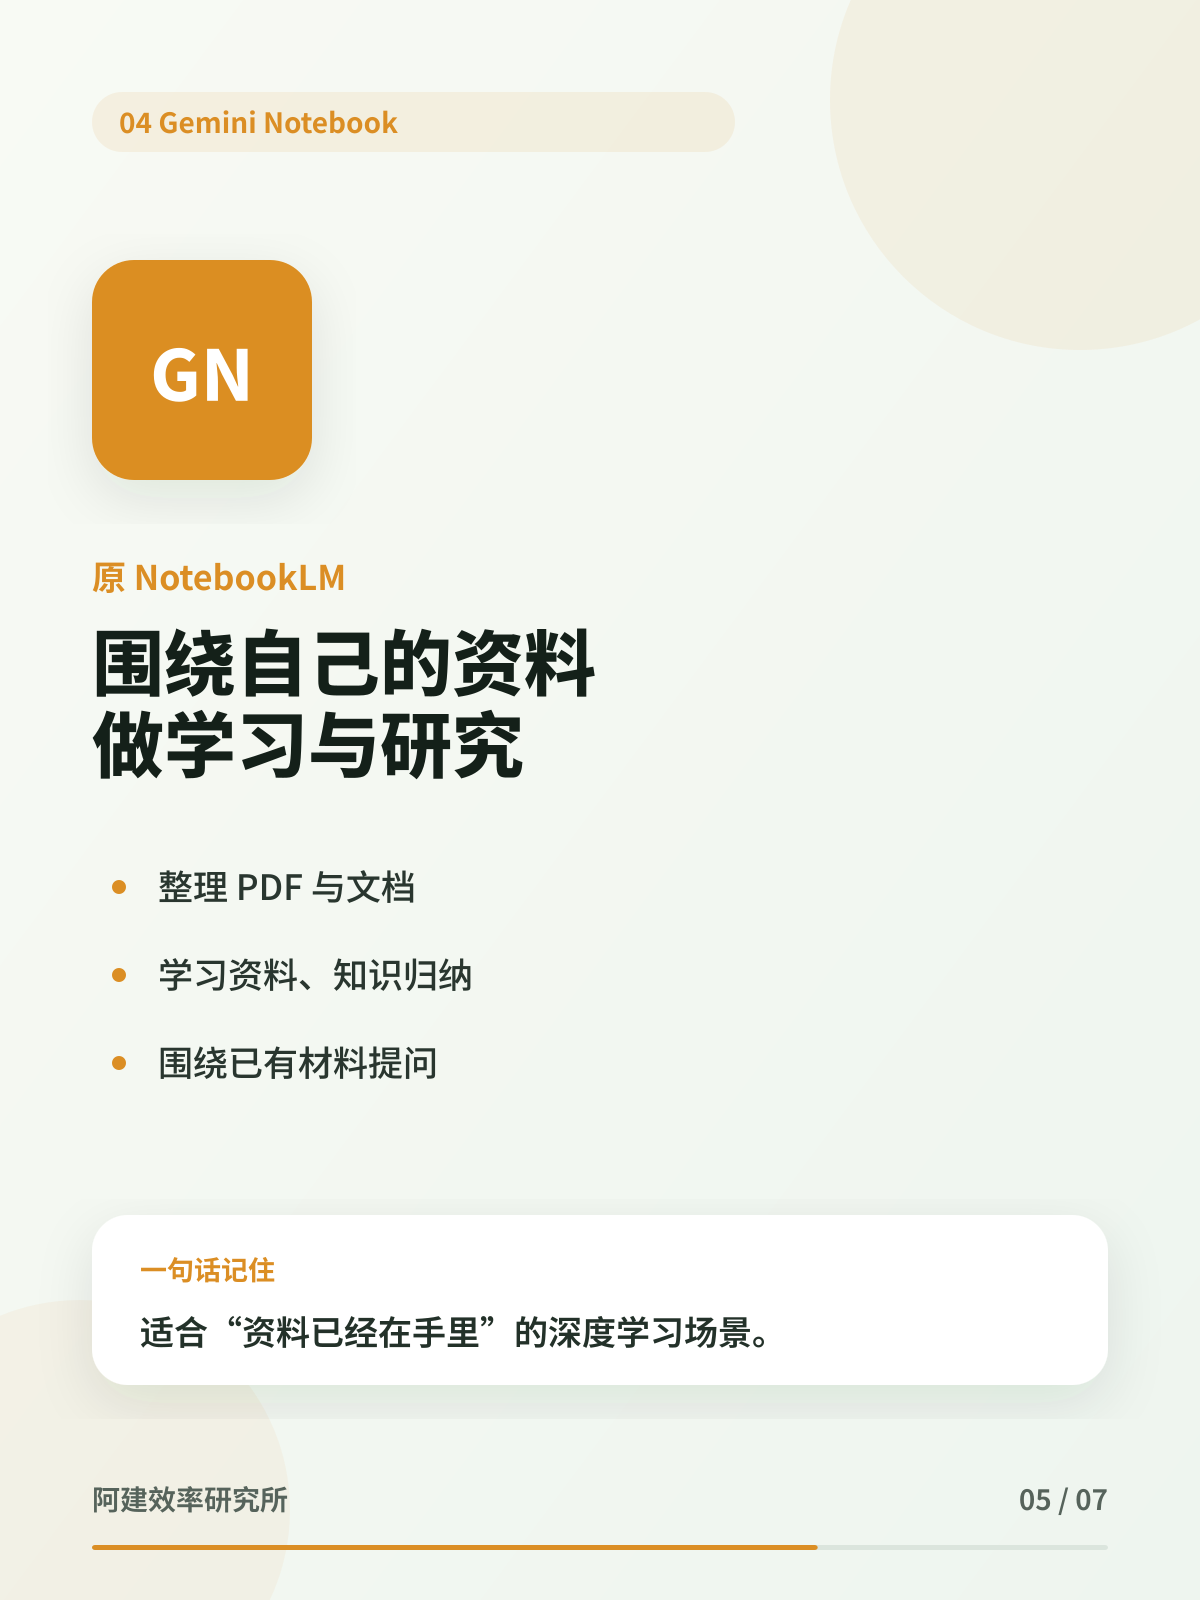
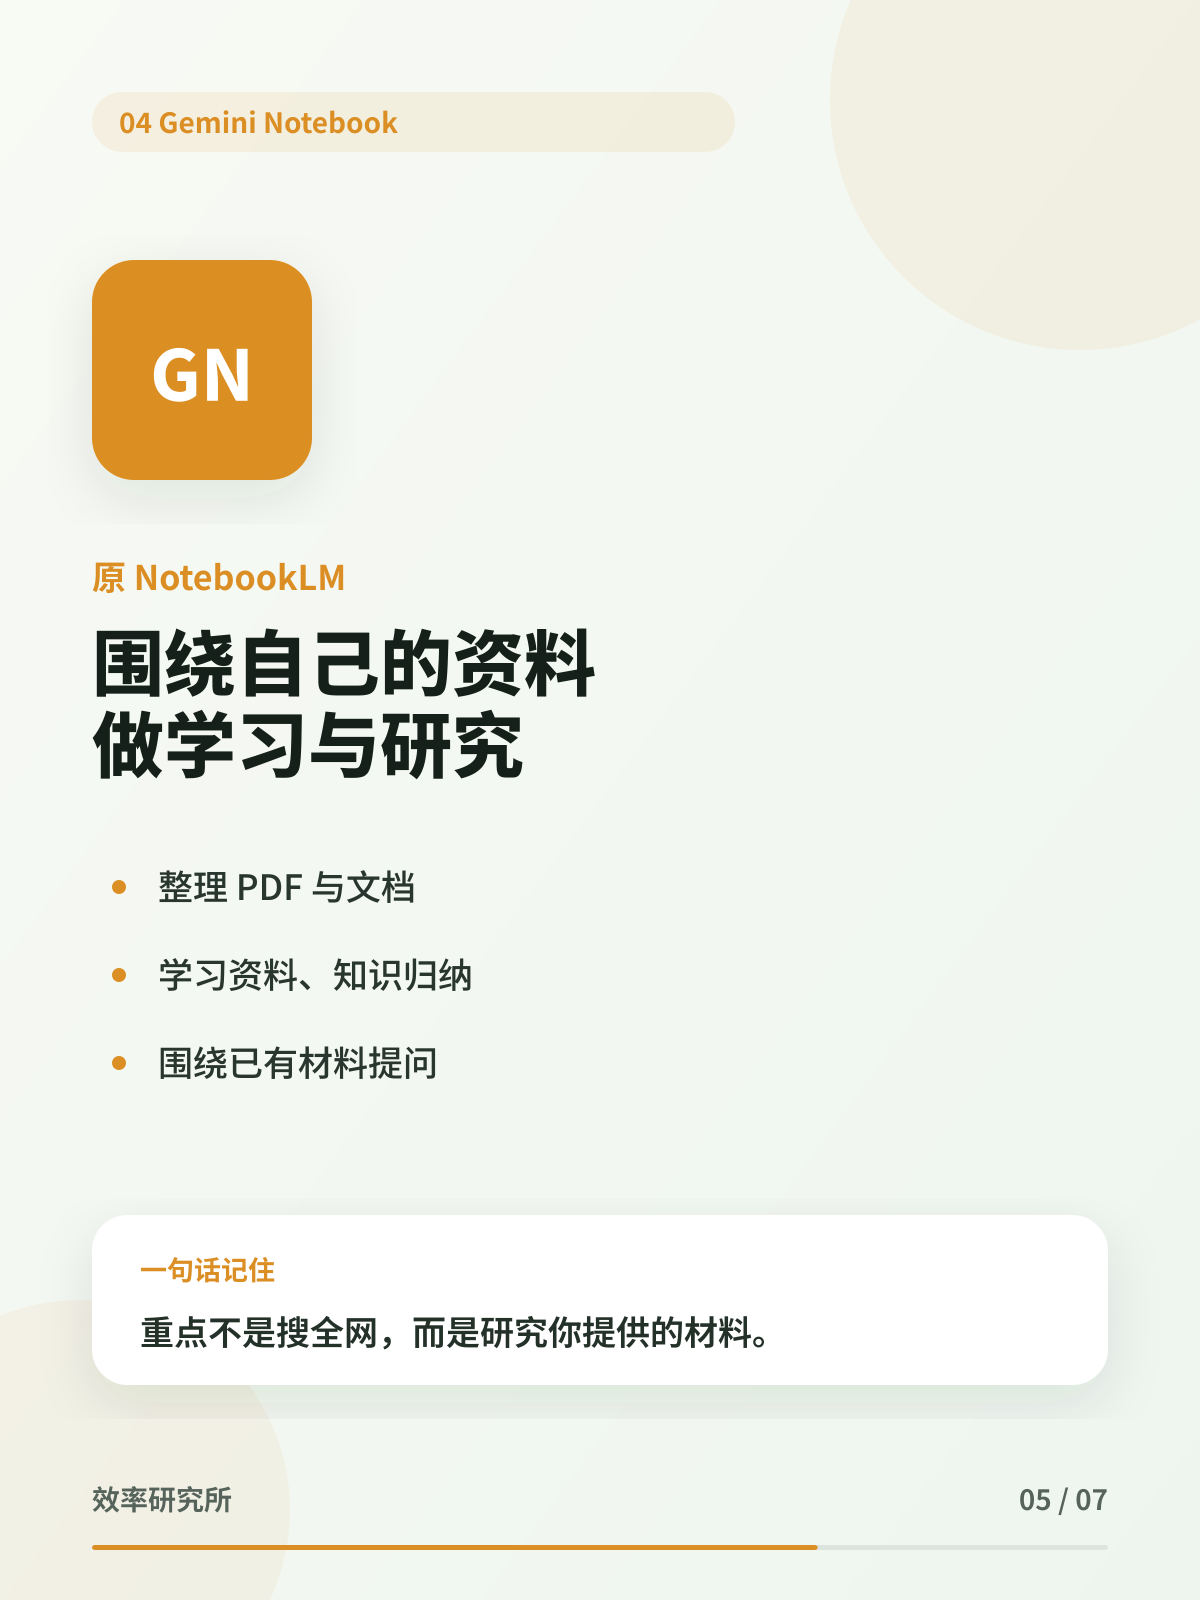
fix: 修改图片和文案
fix: 修改图片和文案

Changed region(s): [[0.1233, 0.8125, 0.6167, 0.8438], [0.0925, 0.9062, 0.2467, 0.9688]]

diff --git a/20260914-效率研究所/source/render.js b/20260914-效率研究所/source/render.js
@@ -4,6 +4,7 @@ const sharp = require('sharp');
 
 const WIDTH = 1200;
 const HEIGHT = 1600;
+const BRAND = '效率研究所';
 const ROOT = path.resolve(__dirname, '..');
 const OUT = path.join(ROOT, 'images');
 fs.mkdirSync(OUT, { recursive: true });
@@ -34,7 +35,7 @@ function shell(page, accent, body) {
     <circle cx="1080" cy="100" r="250" fill="${accent}" opacity="0.08"/>
     <circle cx="80" cy="1510" r="210" fill="${accent}" opacity="0.06"/>
     ${body}
-    ${text(92, 1510, '阿建效率研究所', 28, 650, '#56635b')}
+    ${text(92, 1510, BRAND, 28, 650, '#56635b')}
     ${text(1108, 1510, `${String(page).padStart(2, '0')} / 07`, 28, 650, '#56635b', 'end')}
     <rect x="92" y="1545" width="1016" height="5" rx="3" fill="#dbe5dd"/>
     <rect x="92" y="1545" width="${1016 * page / 7}" height="5" rx="3" fill="${accent}"/>
@@ -72,29 +73,32 @@ const covers = [
   {
     file: '01-cover.png',
     svg: shell(1, '#2f7d52', `
-      ${pill(92, 92, 'AI 工具入门', '#2f7d52')}
-      ${text(92, 390, 'AI工具', 130, 900, '#142019')}
-      ${text(92, 535, '别乱学！', 130, 900, '#2f7d52')}
-      ${text(92, 665, '普通人先搞懂这 5 个', 58, 720, '#26342c')}
-      ${text(92, 740, '先选对工具，再开始学习', 35, 500, '#627068')}
-      <g filter="url(#shadow)">${rounded(92, 860, 1016, 350, 48, '#ffffff')}</g>
-      ${toolIcon(140, 925, 130, 'GPT', '#1f8f64')}
-      ${toolIcon(330, 925, 130, 'G', '#7657d6')}
-      ${toolIcon(520, 925, 130, 'P', '#2877d5')}
-      ${toolIcon(710, 925, 130, 'GN', '#db8e24')}
-      ${toolIcon(900, 925, 130, 'C', '#1d9faa')}
-      ${text(600, 1155, '综合 · 搜索 · 文档 · 设计', 33, 650, '#445149', 'middle')}
-      ${rounded(92, 1280, 260, 76, 38, '#142019')}
-      ${text(222, 1331, '收藏备用', 31, 700, '#ffffff', 'middle')}
+      ${pill(92, 92, 'AI 工具选择指南', '#2f7d52')}
+      ${text(92, 365, '别再乱收藏', 106, 900, '#142019')}
+      ${text(92, 485, 'AI 工具', 118, 900, '#2f7d52')}
+      ${text(92, 620, '普通人先认清这 5 类', 58, 760, '#26342c')}
+      ${text(92, 700, '选对工具，比多学更重要', 37, 520, '#627068')}
+      <g filter="url(#shadow)">${rounded(92, 820, 1016, 390, 48, '#ffffff')}</g>
+      ${toolIcon(140, 885, 130, 'GPT', '#1f8f64')}
+      ${toolIcon(330, 885, 130, 'G', '#7657d6')}
+      ${toolIcon(520, 885, 130, 'P', '#2877d5')}
+      ${toolIcon(710, 885, 130, 'GN', '#db8e24')}
+      ${toolIcon(900, 885, 130, 'C', '#1d9faa')}
+      ${text(205, 1068, 'ChatGPT', 23, 650, '#445149', 'middle')}
+      ${text(395, 1068, 'Gemini', 23, 650, '#445149', 'middle')}
+      ${text(585, 1068, 'Perplexity', 22, 650, '#445149', 'middle')}
+      ${text(775, 1068, 'Notebook', 22, 650, '#445149', 'middle')}
+      ${text(965, 1068, 'Canva', 23, 650, '#445149', 'middle')}
+      ${text(600, 1160, '综合 · 生态 · 搜索 · 文档 · 设计', 31, 650, '#445149', 'middle')}
     `)
   },
   {
     file: '02-chatgpt.png',
     svg: toolPage(2, {
-      name: 'ChatGPT', icon: 'GPT', accent: '#1f8f64', kicker: '万能型 AI 助手',
+      name: 'ChatGPT', icon: 'GPT', accent: '#1f8f64', kicker: '综合型 AI 助手',
       title: '不知道用什么 AI？', title2: '先从它开始',
-      bullets: ['写作、总结与润色', '分析问题、辅助学习', '梳理思路、生成方案'],
-      takeaway: '适合高频、综合、需要来回沟通的任务。'
+      bullets: ['把会议纪要整理成待办', '总结长文并提取重点', '梳理方案并反复修改'],
+      takeaway: '适合综合处理、需要来回沟通的任务。'
     })
   },
   {
@@ -102,17 +106,17 @@ const covers = [
     svg: toolPage(3, {
       name: 'Gemini', icon: 'G', accent: '#7657d6', kicker: 'Google 系 AI 助手',
       title: '用 Google 生态的人', title2: '可以重点关注',
-      bullets: ['搜索与日常问答', '图片、文档与多模态', '连接 Google 使用场景'],
-      takeaway: '适合已经在 Google 生态里工作和学习的人。'
+      bullets: ['搜索与日常问答', '图片、文档与多模态', '联动 Google 应用场景'],
+      takeaway: '具体能力会因账号、地区和订阅方案而变化。'
     })
   },
   {
     file: '04-perplexity.png',
     svg: toolPage(4, {
-      name: 'Perplexity', icon: 'P', accent: '#2877d5', kicker: 'AI 搜索／查资料',
+      name: 'Perplexity', icon: 'P', accent: '#2877d5', kicker: '联网查资料',
       title: '想快速了解陌生领域', title2: '用它找资料',
-      bullets: ['查资料、做调研', '快速建立主题框架', '回答后继续查看来源'],
-      takeaway: '适合需要信息来源、又想快速入门的任务。'
+      bullets: ['查资料、做调研', '快速建立主题框架', '回答带引用，可点回原文核对'],
+      takeaway: '有来源不等于正确，重要结论仍要确认。'
     })
   },
   {
@@ -121,16 +125,16 @@ const covers = [
       name: 'Gemini Notebook', icon: 'GN', accent: '#db8e24', kicker: '原 NotebookLM',
       title: '围绕自己的资料', title2: '做学习与研究',
       bullets: ['整理 PDF 与文档', '学习资料、知识归纳', '围绕已有材料提问'],
-      takeaway: '适合“资料已经在手里”的深度学习场景。'
+      takeaway: '重点不是搜全网，而是研究你提供的材料。'
     })
   },
   {
     file: '06-canva-ai.png',
     svg: toolPage(6, {
       name: 'Canva AI', icon: 'C', accent: '#1d9faa', kicker: '设计／图片／内容制作',
-      title: '不太会设计？', title2: '先研究这类工具',
+      title: '做海报、PPT和社媒图', title2: '可以先用它出初稿',
       bullets: ['海报、图片与演示文稿', '文档与社媒内容', '快速完成视觉初稿'],
-      takeaway: '适合想把想法快速变成视觉内容的人。'
+      takeaway: '最终排版和文字仍需人工检查。'
     })
   },
   {
@@ -140,16 +144,18 @@ const covers = [
       ${text(92, 285, '不用一次学会', 76, 850, '#142019')}
       ${text(92, 380, '几十个 AI', 92, 900, '#2f7d52')}
       ${text(92, 458, '先根据需求选对工具', 38, 550, '#5e6b63')}
-      <g filter="url(#shadow)">${rounded(92, 560, 1016, 700, 48, '#ffffff')}</g>
-      ${toolIcon(138, 620, 96, 'GPT', '#1f8f64')}${text(280, 680, '综合处理', 35, 750, '#1f2923')}${text(1035, 680, 'ChatGPT', 34, 650, '#1f8f64', 'end')}
-      <line x1="138" y1="745" x2="1062" y2="745" stroke="#e7ece8" stroke-width="2"/>
-      ${toolIcon(138, 785, 96, 'P', '#2877d5')}${text(280, 845, '搜索资料', 35, 750, '#1f2923')}${text(1035, 845, 'Perplexity', 34, 650, '#2877d5', 'end')}
-      <line x1="138" y1="910" x2="1062" y2="910" stroke="#e7ece8" stroke-width="2"/>
-      ${toolIcon(138, 950, 96, 'GN', '#db8e24')}${text(280, 1010, '文档学习', 35, 750, '#1f2923')}${text(1035, 1010, 'Gemini Notebook', 34, 650, '#db8e24', 'end')}
-      <line x1="138" y1="1075" x2="1062" y2="1075" stroke="#e7ece8" stroke-width="2"/>
-      ${toolIcon(138, 1115, 96, 'C', '#1d9faa')}${text(280, 1175, '设计内容', 35, 750, '#1f2923')}${text(1035, 1175, 'Canva AI', 34, 650, '#1d9faa', 'end')}
-      ${text(600, 1345, 'Google 生态 → Gemini', 34, 700, '#7657d6', 'middle')}
-      ${text(600, 1405, '收藏起来，慢慢学。', 32, 550, '#536159', 'middle')}
+      <g filter="url(#shadow)">${rounded(92, 520, 1016, 745, 48, '#ffffff')}</g>
+      ${toolIcon(138, 570, 84, 'GPT', '#1f8f64')}${text(260, 623, '综合沟通', 32, 750, '#1f2923')}${text(1035, 623, 'ChatGPT', 31, 650, '#1f8f64', 'end')}
+      <line x1="138" y1="682" x2="1062" y2="682" stroke="#e7ece8" stroke-width="2"/>
+      ${toolIcon(138, 705, 84, 'G', '#7657d6')}${text(260, 758, 'Google 生态', 32, 750, '#1f2923')}${text(1035, 758, 'Gemini', 31, 650, '#7657d6', 'end')}
+      <line x1="138" y1="817" x2="1062" y2="817" stroke="#e7ece8" stroke-width="2"/>
+      ${toolIcon(138, 840, 84, 'P', '#2877d5')}${text(260, 893, '联网查资料', 32, 750, '#1f2923')}${text(1035, 893, 'Perplexity', 31, 650, '#2877d5', 'end')}
+      <line x1="138" y1="952" x2="1062" y2="952" stroke="#e7ece8" stroke-width="2"/>
+      ${toolIcon(138, 975, 84, 'GN', '#db8e24')}${text(260, 1028, '围绕资料学习', 32, 750, '#1f2923')}${text(1035, 1028, 'Gemini Notebook', 30, 650, '#db8e24', 'end')}
+      <line x1="138" y1="1087" x2="1062" y2="1087" stroke="#e7ece8" stroke-width="2"/>
+      ${toolIcon(138, 1110, 84, 'C', '#1d9faa')}${text(260, 1163, '视觉内容初稿', 32, 750, '#1f2923')}${text(1035, 1163, 'Canva AI', 31, 650, '#1d9faa', 'end')}
+      ${text(600, 1350, '后续按中文体验、上手难度', 31, 650, '#536159', 'middle')}
+      ${text(600, 1400, '和真实任务效果逐个测试', 31, 650, '#536159', 'middle')}
     `)
   }
 ];
@@ -162,4 +168,3 @@ Promise.all(covers.map(({ file, svg }) =>
   console.error(error);
   process.exitCode = 1;
 });
-

diff --git a/20260914-效率研究所/README.md b/20260914-效率研究所/README.md
@@ -2,98 +2,98 @@
 
 ## 发布标题
 
-AI工具别乱学！普通人先搞懂这5个
+别再乱收藏AI工具！普通人先认清这5类
 
 ## 笔记定位
 
-- 账号：阿建效率研究所
+- 账号：效率研究所
 - 方向：AI｜软件｜电脑效率｜实用工具
 - 形式：7 页图文笔记
 - 目标：帮助新号建立“AI／软件／效率”标签，首篇不挂商品
 
 ## 发布正文
 
-AI工具真的越来越多了。
+AI工具越来越多，但普通人最容易遇到的问题，不是工具太少，而是：
 
-今天一个新模型，明天又冒出一个新产品。对刚接触AI的人来说，最容易出现的问题不是“工具太少”，而是：
+收藏了一大堆，真正遇到任务时，还是不知道该用哪个。😂
 
-工具收藏了一大堆，一个都没真正用起来。😂
-
-如果你是普通学生、上班族，或者经常用电脑，我觉得不用一上来就研究几十个AI。先把这5类工具搞懂👇
+如果你平时要学习、办公或者经常用电脑，可以先按需求认识这5类工具：
 
 1⃣ ChatGPT  
-适合：写作、总结、分析、学习、做方案。属于比较全能型的AI助手。
+适合综合处理：写作、总结、分析、学习和反复修改方案。
 
 2⃣ Gemini  
-适合：Google生态、多模态、搜索和日常AI使用。
+适合Google生态、多模态内容和日常AI使用。具体可用的联动能力会因账号、地区和订阅方案不同而变化。
 
 3⃣ Perplexity  
-适合：查资料、做调研、找信息来源。我会更把它理解成“AI搜索工具”。
+适合联网查资料、快速了解陌生领域；回答带引用，但重要信息仍要打开原文核对。
 
-4⃣ Gemini Notebook  
-原 NotebookLM。适合：PDF、文档、学习资料、知识整理。
+4⃣ Gemini Notebook（原NotebookLM）  
+适合围绕自己的PDF、文档和学习资料进行整理、归纳与提问。
 
 5⃣ Canva AI  
-适合：图片、设计、PPT、社媒内容制作。
+适合快速制作图片、演示文稿和社媒内容初稿，最终排版仍建议人工检查。
 
-其实普通人真正需要的不是“知道100个AI工具”，而是遇到一个问题，知道该找哪个工具。
+不用一次学会几十个AI。遇到一个具体问题，知道应该先打开哪个工具，才是真正的效率提升。
 
-接下来这个账号我会继续实测：AI工具｜软件｜电脑效率｜实用工具。尽量不讲太复杂的概念，只分享真正能用上的东西。
+接下来我会按中文体验、上手难度和真实任务效果，把这些工具逐个上手测试。
 
-先收藏，这5个后面我会一个个拆开讲。👇
-
-#AI工具 #AI效率 #ChatGPT #电脑技巧 #效率工具 #办公效率 #软件推荐
+#AI工具 #效率工具 #ChatGPT #办公效率 #电脑技巧 #AI入门
 
 ## 7 页配图文案
 
 ### 第 1 页｜封面
 
-AI工具别乱学！  
-普通人先搞懂这5个  
-收藏备用
+别再乱收藏AI工具  
+普通人先认清这5类  
+选对工具，比多学更重要
 
 ### 第 2 页｜ChatGPT
 
-万能型AI助手  
-写东西｜总结｜分析｜学习｜做方案  
-不知道用什么AI时，可以先从它开始。  
-适合度：★★★★★
+综合型AI助手  
+把会议纪要整理成待办  
+总结长文并提取重点  
+梳理方案并反复修改
 
 ### 第 3 页｜Gemini
 
 Google系AI助手  
-搜索｜学习｜图片｜文档｜多模态  
-如果你本身就在用Google生态，可以重点关注。
+搜索与日常问答  
+图片、文档与多模态  
+联动Google应用场景  
+具体能力会因账号、地区和订阅方案而变化。
 
 ### 第 4 页｜Perplexity
 
-AI搜索／查资料  
-查资料｜做调研｜找来源｜了解陌生领域  
-最大特点：回答后可以继续查看信息来源。
+联网查资料  
+查资料｜做调研｜了解陌生领域  
+回答带引用，可点回原文核对  
+有来源不等于一定正确，重要结论仍要确认。
 
 ### 第 5 页｜Gemini Notebook
 
 原 NotebookLM  
 文档｜资料｜学习｜知识整理  
-把自己的PDF和资料放进去，更适合围绕自己的材料研究。
+围绕自己的PDF和资料进行理解、归纳和提问。  
+重点不是搜全网，而是研究你提供的材料。
 
 ### 第 6 页｜Canva AI
 
 设计／图片／内容制作  
-海报｜PPT｜图片｜文档｜社媒内容  
-不太会设计的人，可以重点研究这类AI工具。
+做海报、PPT和社媒图，可以先用它出初稿。  
+最终排版和文字仍需人工检查。
 
 ### 第 7 页｜收藏总结
 
 不用一次学会几十个AI，先根据需求选：
 
-- 综合处理 → ChatGPT
-- 搜索资料 → Perplexity
-- 文档学习 → Gemini Notebook
-- 设计内容 → Canva AI
+- 综合沟通 → ChatGPT
 - Google生态 → Gemini
+- 联网查资料 → Perplexity
+- 围绕资料学习 → Gemini Notebook
+- 视觉内容初稿 → Canva AI
 
-后面我会把每个工具都拆开实测。收藏起来，慢慢学。
+后续按中文体验、上手难度和真实任务效果逐个测试。
 
 ## 发布检查
 
